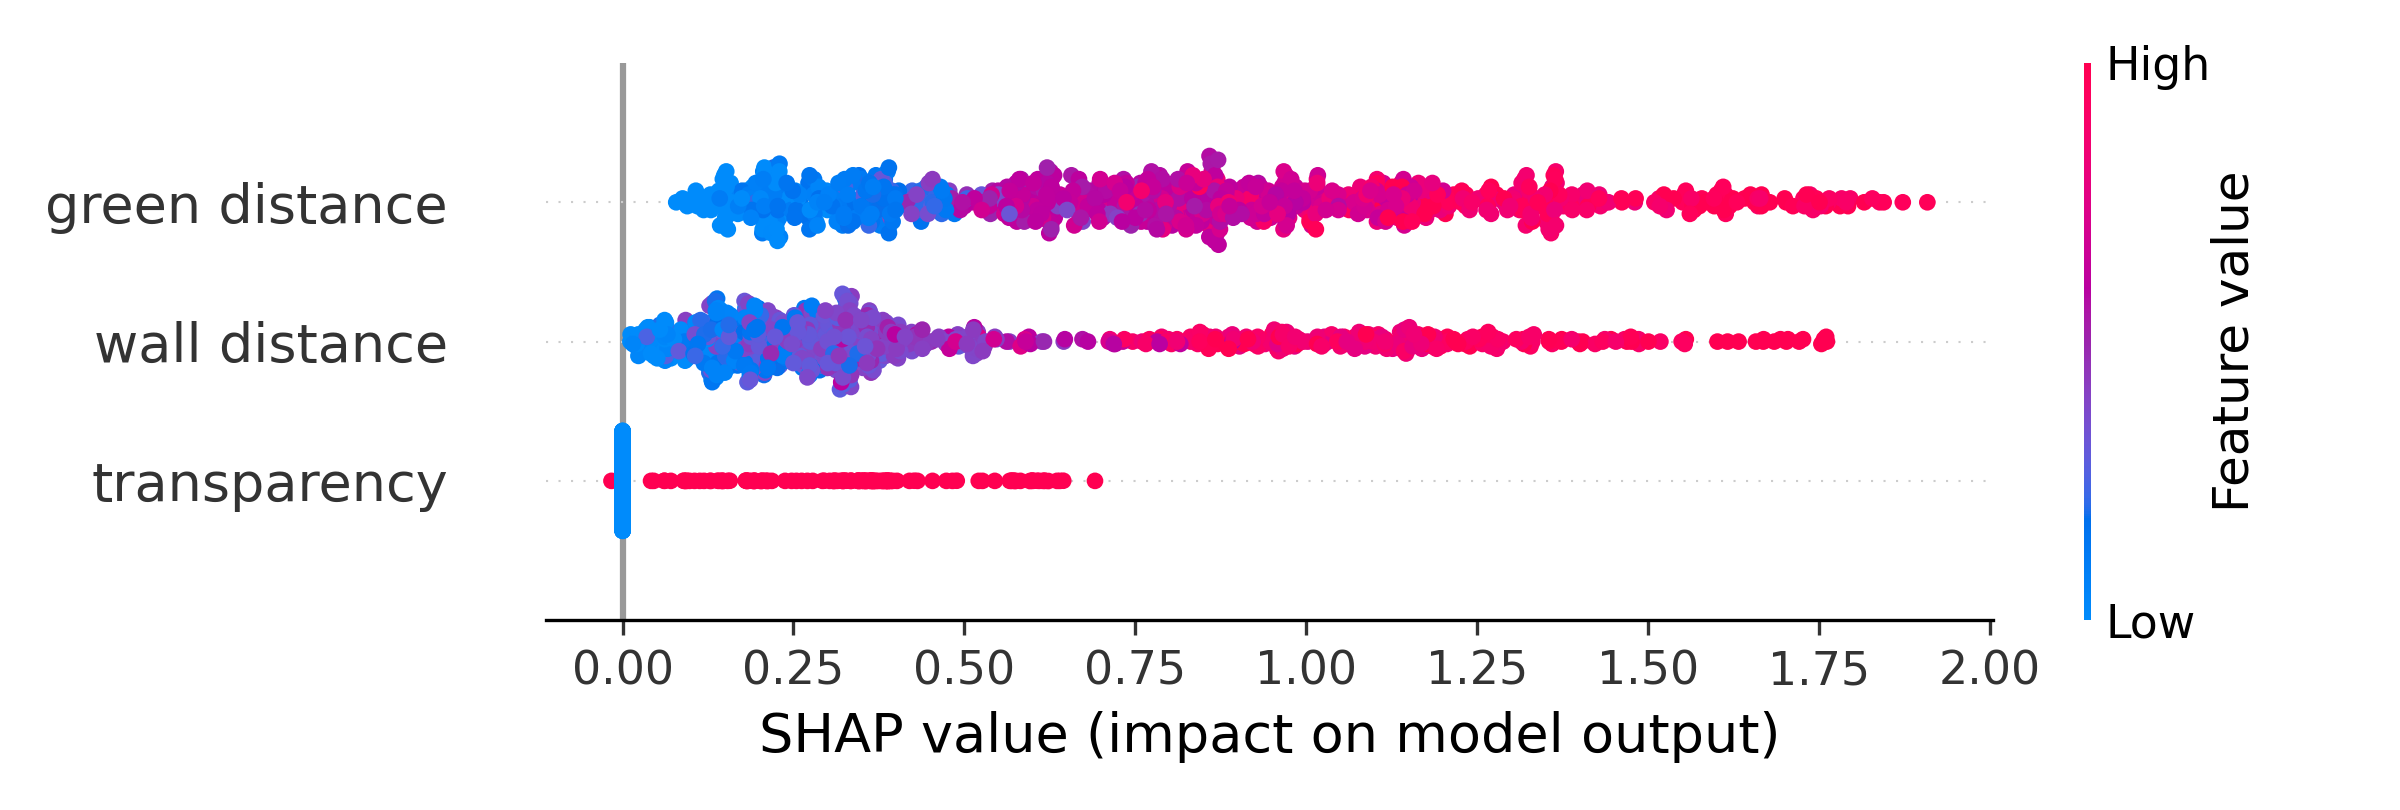
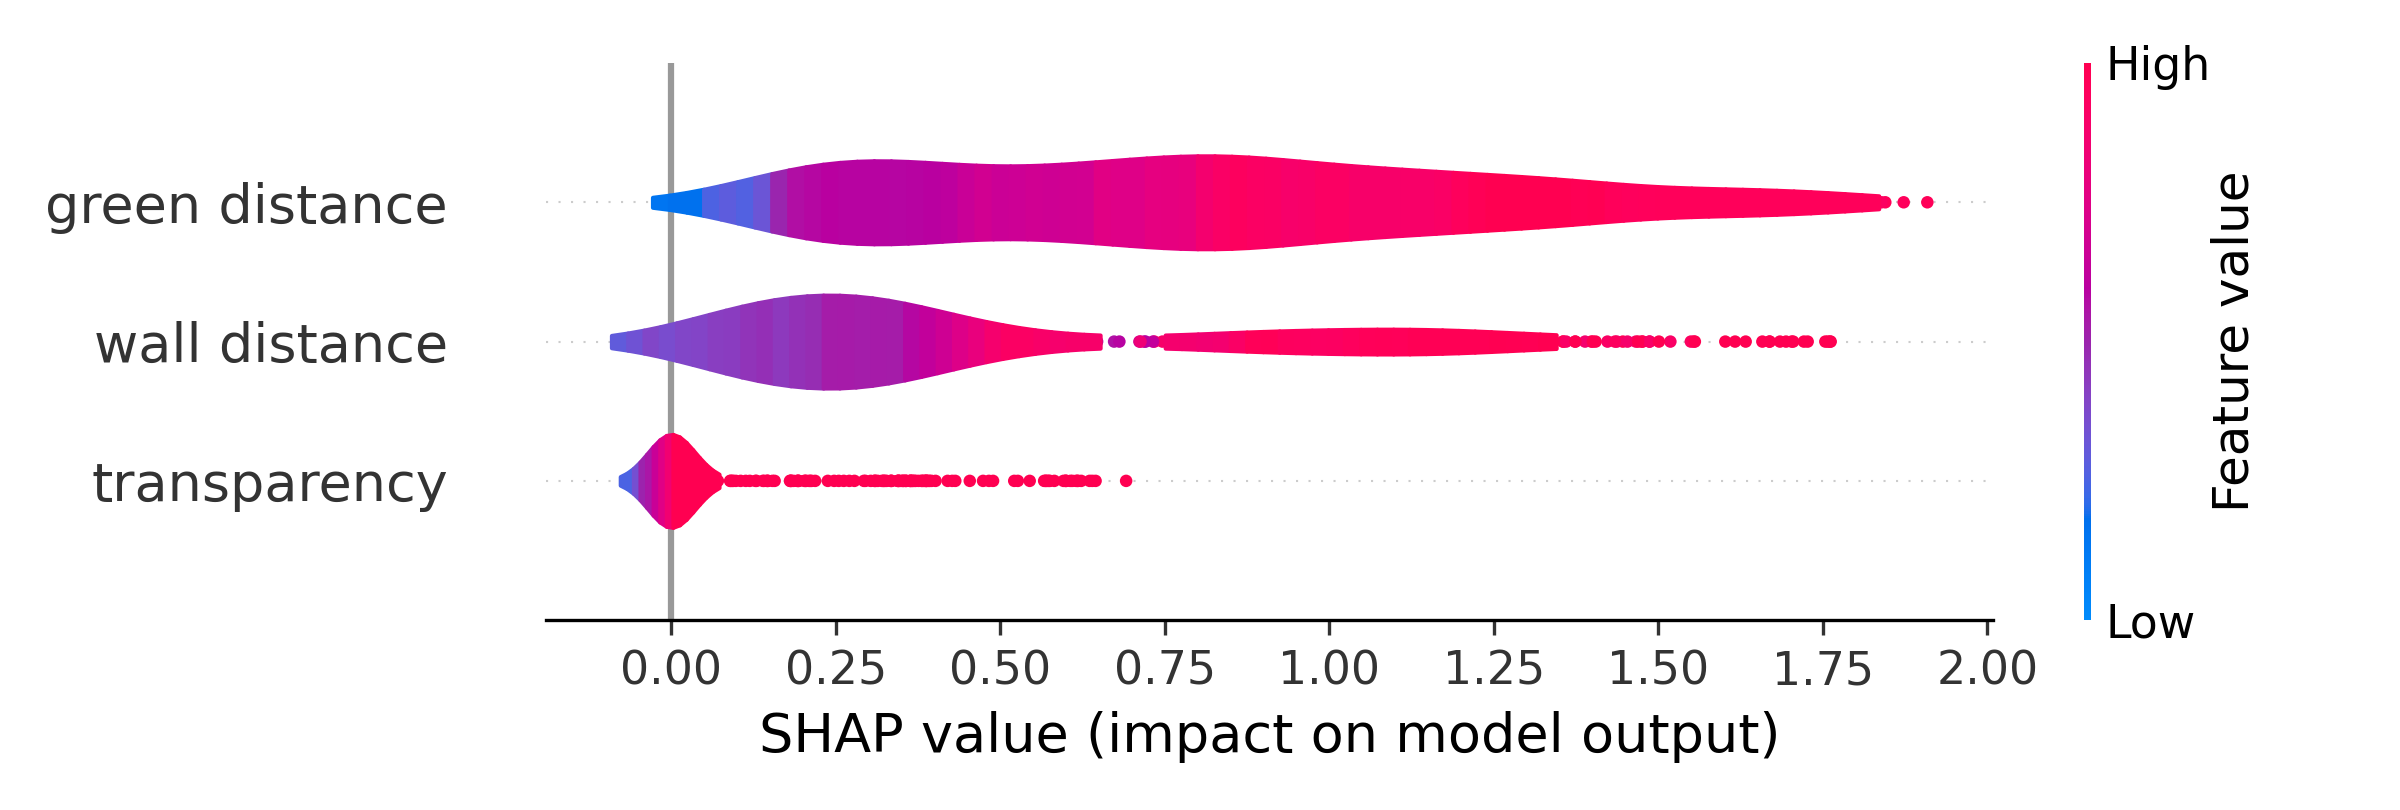
add the violin plot

Changed region(s): [[0.25, 0.0926, 0.8125, 0.7716], [0.2188, 0.8025, 0.7812, 0.8642], [0.8125, 0.8025, 0.8438, 0.8642]]

diff --git a/Xinjiekou reward analysis.py b/Xinjiekou reward analysis.py
@@ -109,13 +109,14 @@ for _ in range(1):
 
     model_type = "North" if North else "South"
 
+
     if not selected_features:
         plt.figure(figsize=(16, 8))  # Adjust size as needed
         shap.summary_plot(
             shap_value,
             features=features,
             feature_names=x_axis_data_labels,  # Use your combined feature names here
-            plot_type="dot",
+            plot_type="violin",
             show=False  # Prevent SHAP from automatically displaying the plot
         )
 
@@ -137,7 +138,7 @@ for _ in range(1):
             shap_value_selected,
             features=features_selected,
             feature_names=selected_feature_names,
-            plot_type="dot",
+            plot_type="violin",
             show=False  # Prevent SHAP from automatically displaying the plot
         )
 
